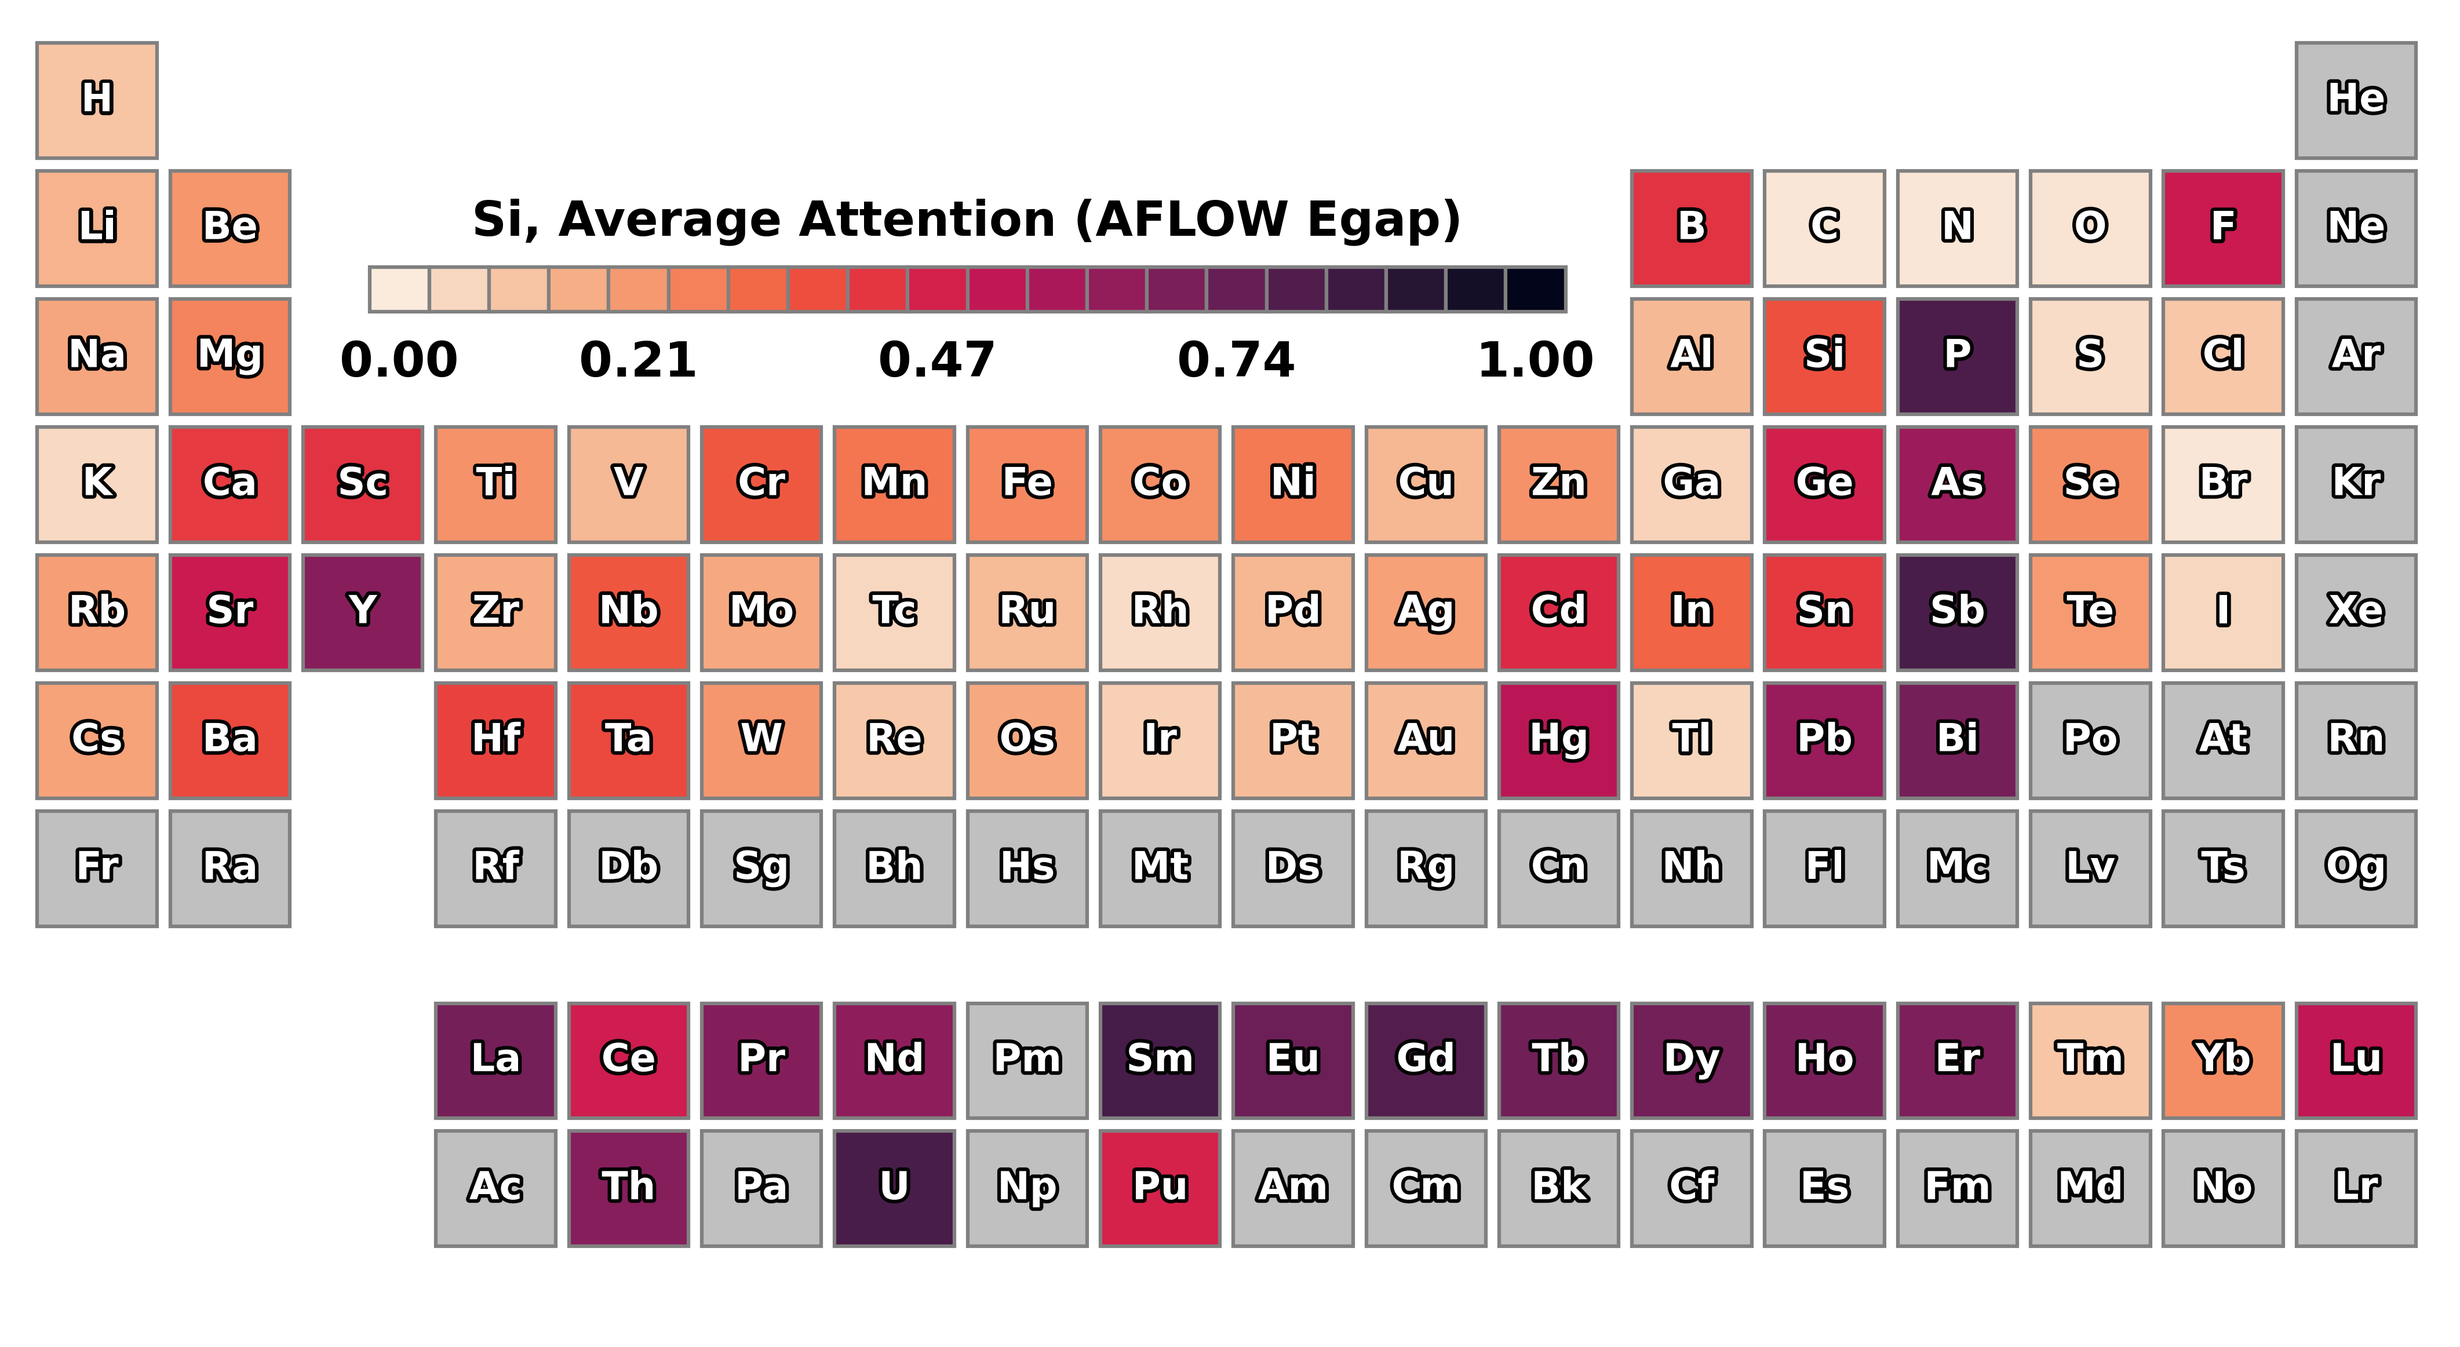
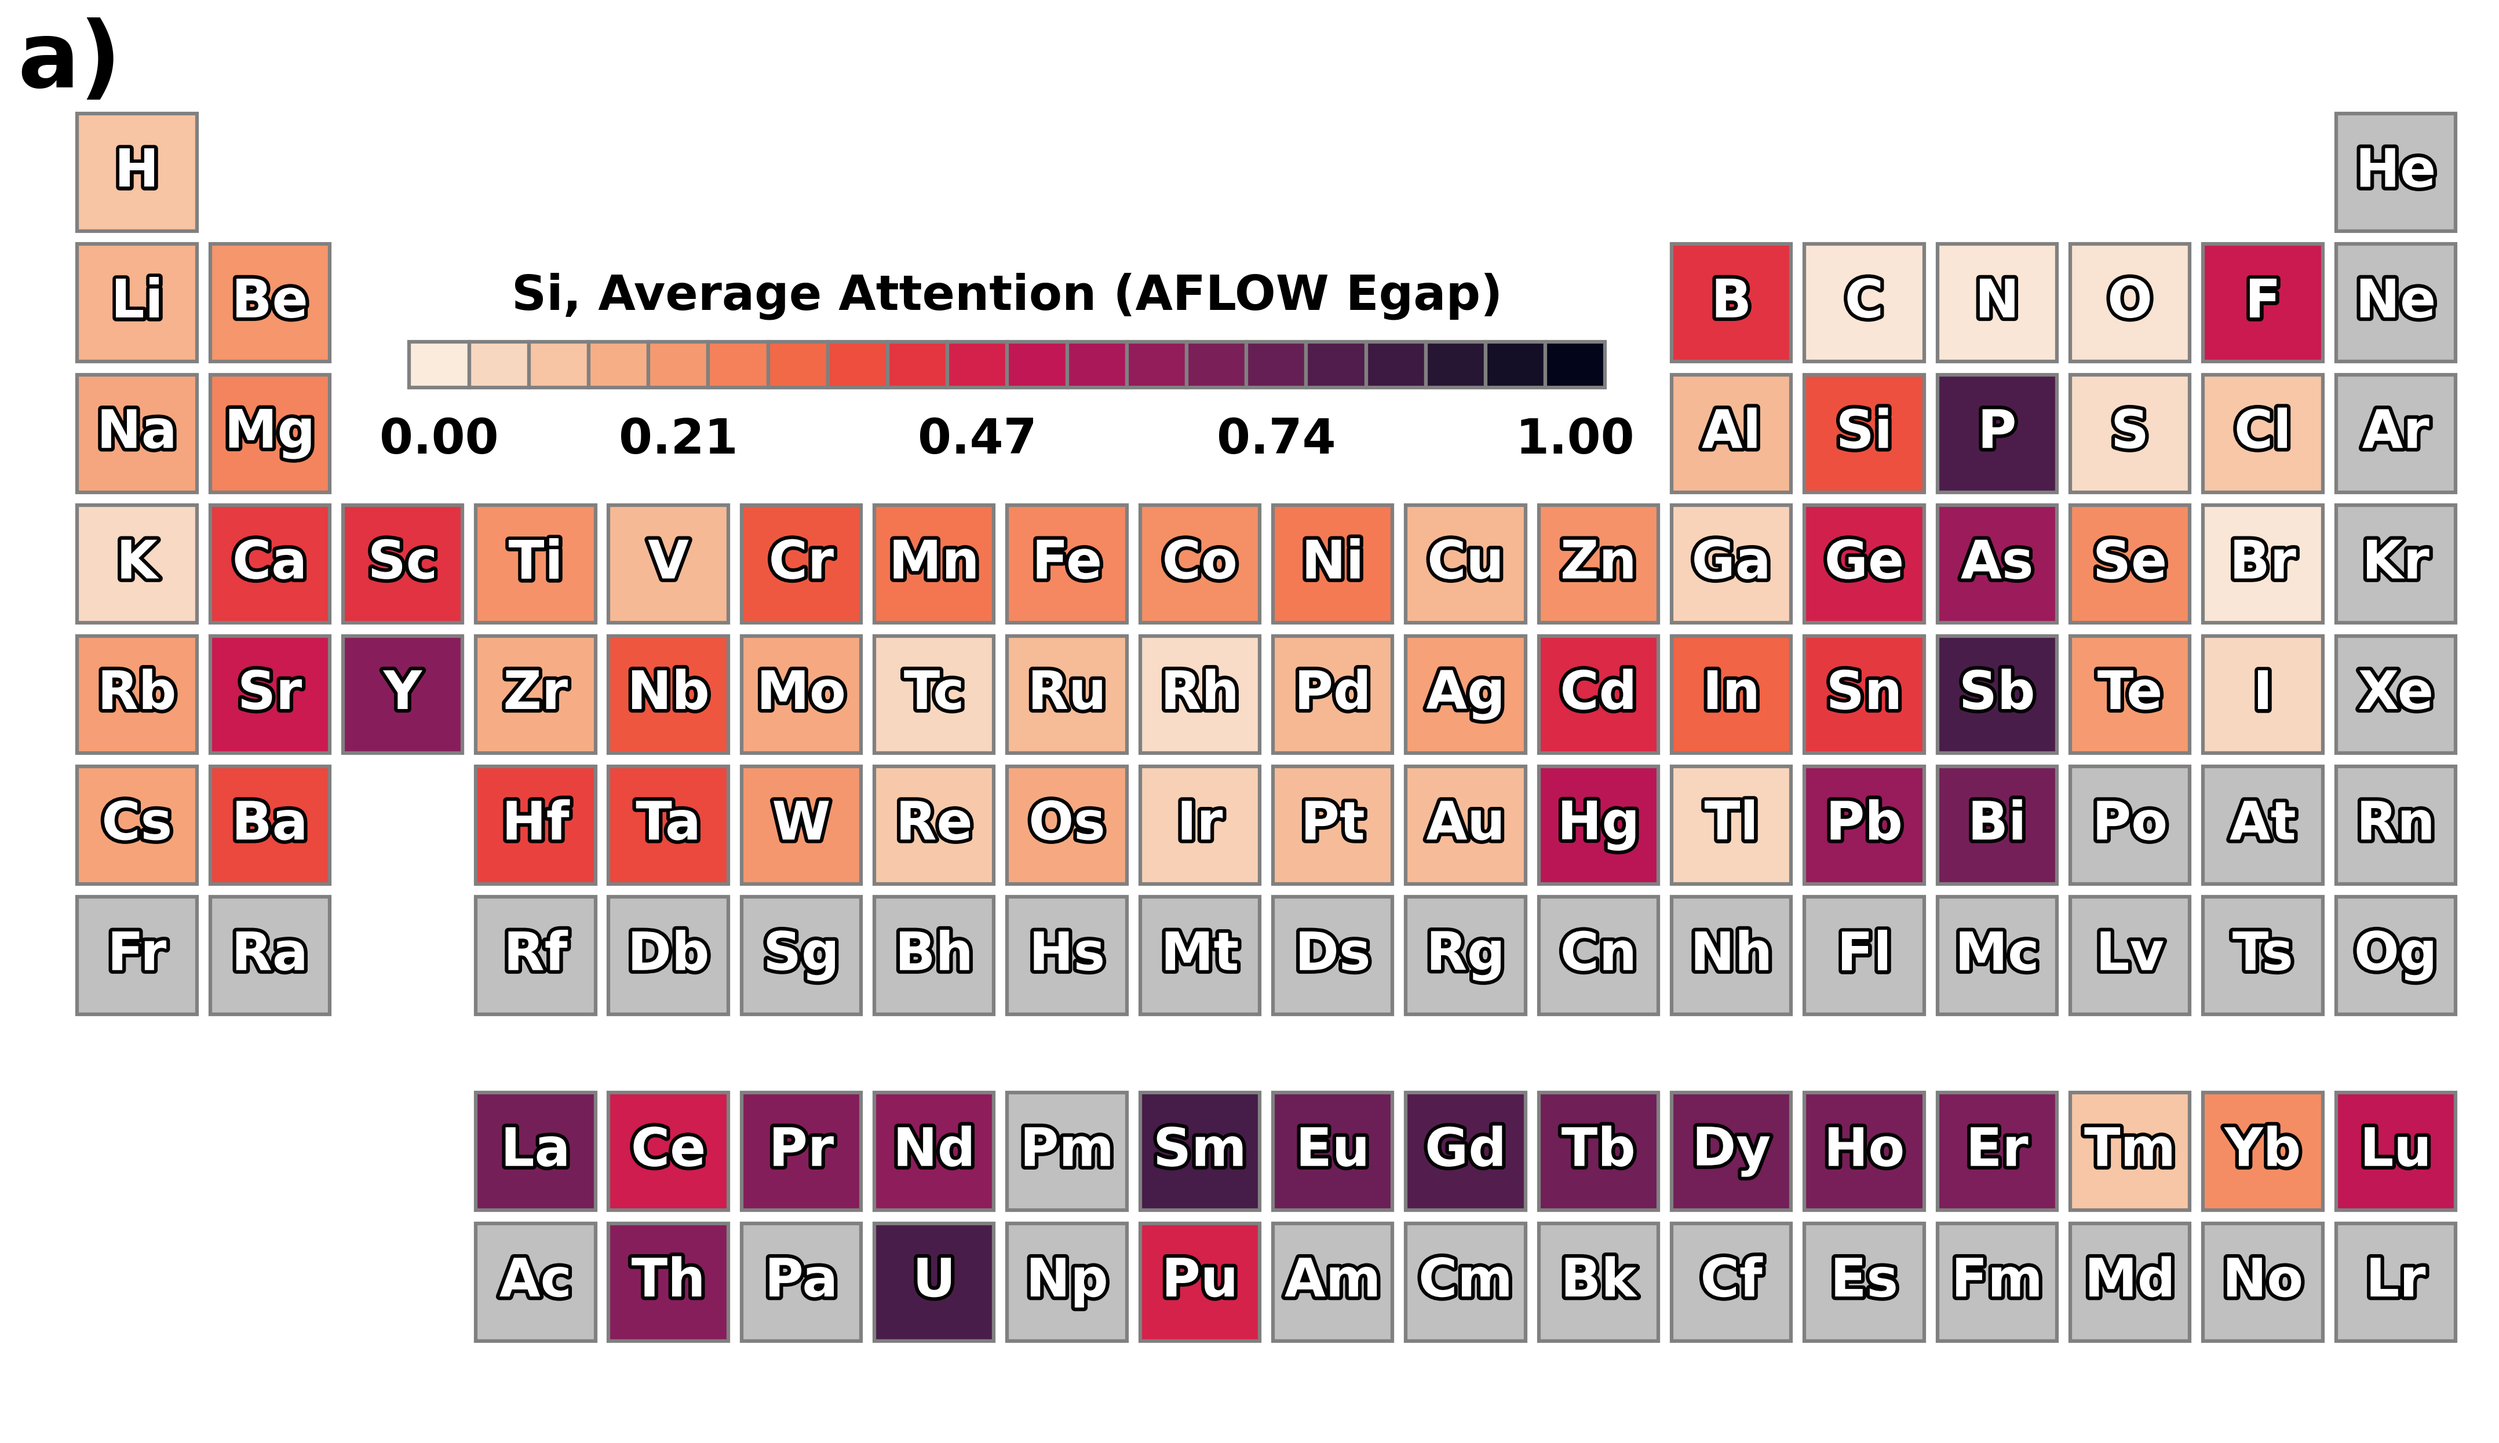
Small visual improvements in plotting

diff --git a/Paper_FIG_2.py b/Paper_FIG_2.py
@@ -170,7 +170,12 @@ for data, in_frac  in zip(datas, in_fracs):
     other_dict = {i: [] for i in range(1, 119)}
 
     option = [0, 1, 2, 3, 'average']
-    head_option = option[0]
+    option_texts = ['a)', 'b)', 'c)', 'd)', 'average']
+
+    idx_plot = 0
+    head_option = option[idx_plot]
+    option_text = option_texts[idx_plot]
+
     for idx in range(len(data_loader.dataset)):
         map_data = get_attention(attn_mat, idx=idx, layer=layer, head=head_option)
         atom_fracs = get_atomic_fracs(data_loader, idx=idx)
@@ -244,16 +249,17 @@ for data, in_frac  in zip(datas, in_fracs):
                 color = 'silver'
             if row < 3:
                 row += 0.5
+            # element box
             rect = patches.Rectangle((column, row), rw, rh,
                                      linewidth=1.5,
                                      edgecolor='gray',
                                      facecolor=color,
                                      alpha=1)
-
+            # plot element text
             text = plt.text(column+rw/2, row+rw/2, symbol,
                      horizontalalignment='center',
                      verticalalignment='center',
-                     fontsize=16,
+                     fontsize=22,
                      fontweight='semibold', color='white')
 
             text.set_path_effects([path_effects.Stroke(linewidth=3,
@@ -300,6 +306,9 @@ for data, in_frac  in zip(datas, in_fracs):
                  verticalalignment='center',
                  fontweight='semibold',
                  fontsize=20, color='k')
+        # add annotation for subfigure numbering
+        plt.text(0.55, n_row+.1, option_text,
+                 fontweight='semibold', fontsize=38, color='k')
         ax.set_ylim(-0.15, n_row+.1)
         ax.set_xlim(0.85, n_column+1.1)
 

diff --git a/Paper_FIG_3.py b/Paper_FIG_3.py
@@ -194,16 +194,17 @@ def plot(mat_prop, property_tracker):
             color = 'silver'
         if row < 3:
             row += 0.5
+        # element box
         rect = patches.Rectangle((column, row), rw, rh,
                                  linewidth=1.5,
                                  edgecolor='gray',
                                  facecolor=color,
                                  alpha=1)
-
+        # plot element text
         plt.text(column+rw/2, row+rw/2, symbol,
                  horizontalalignment='center',
                  verticalalignment='center',
-                 fontsize=20,
+                 fontsize=22,
                  fontweight='semibold', color='k')
 
         ax.add_patch(rect)
